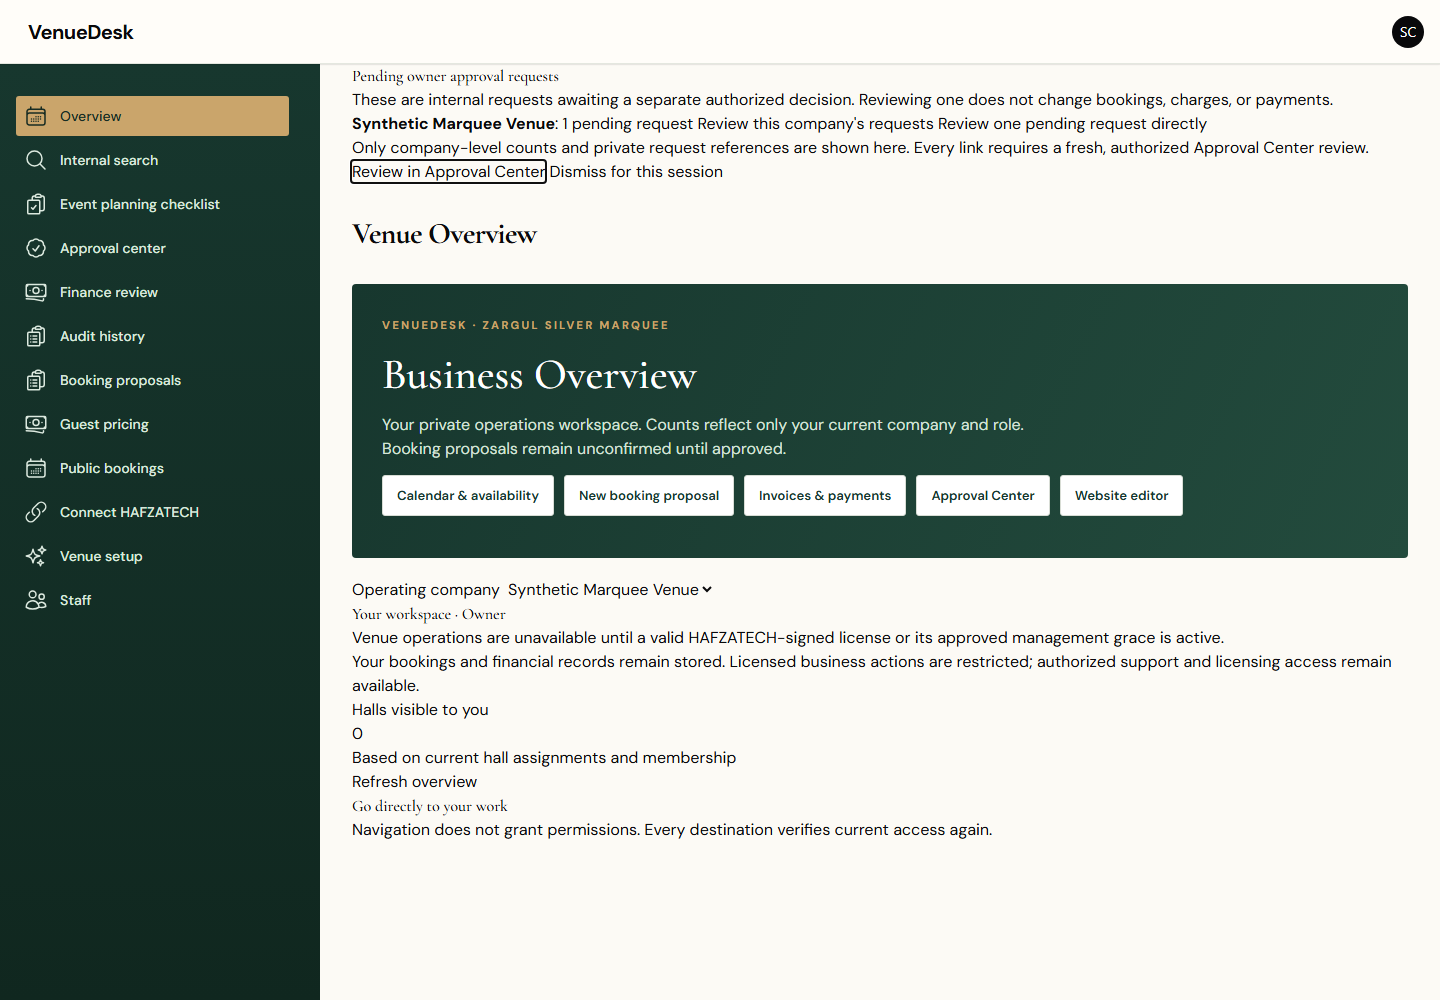
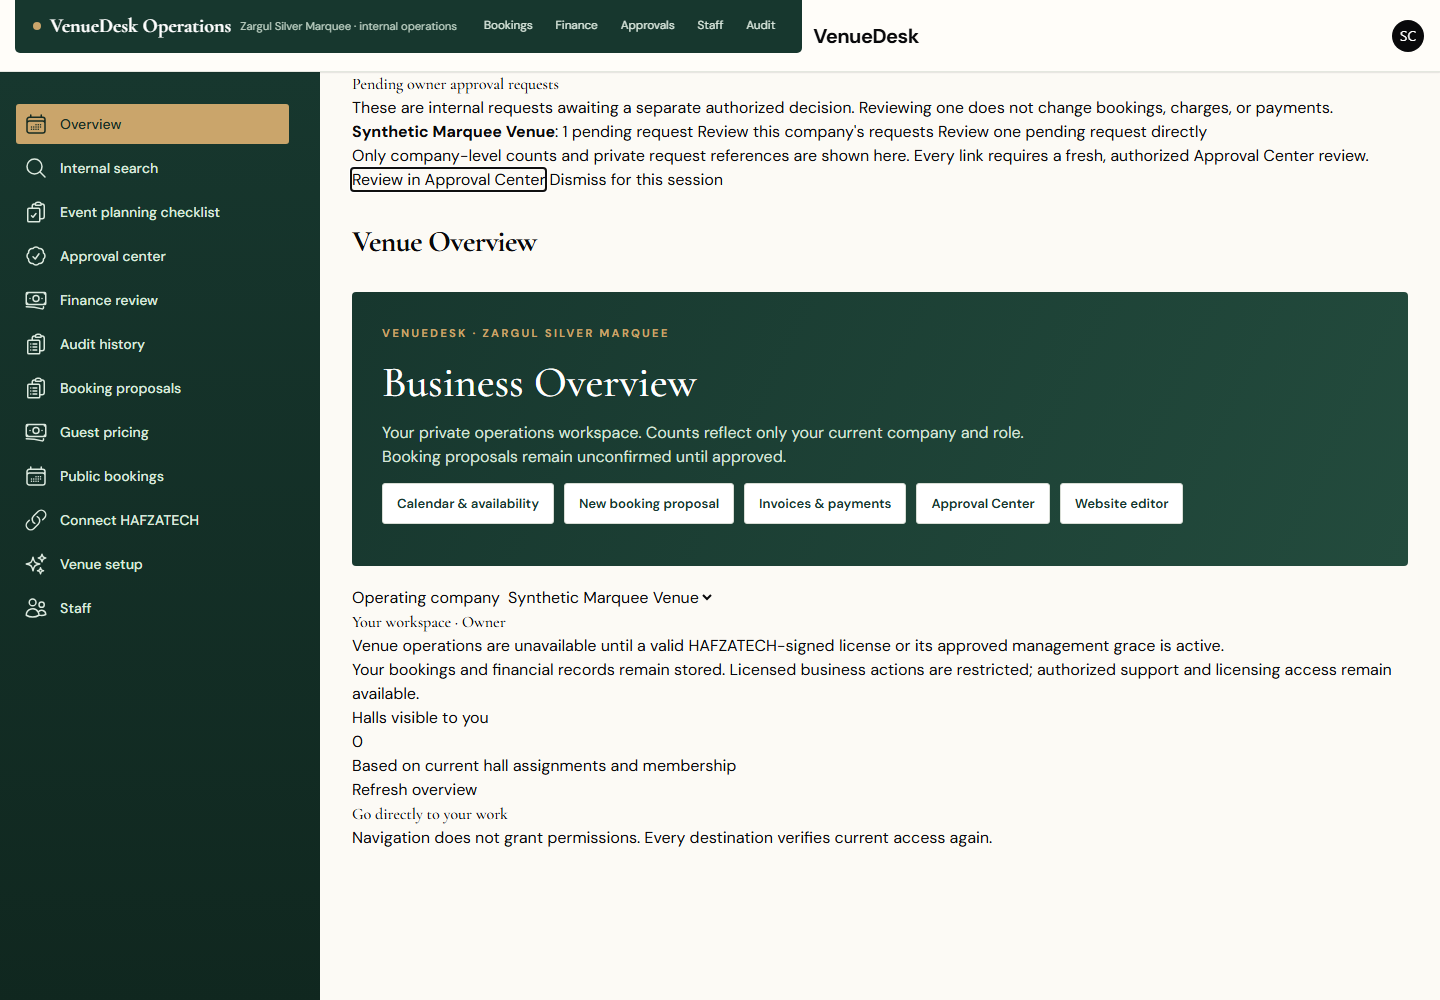
feat(ui): connect VenueDesk module bar and Central operations

diff --git a/backend/public/css/venuedesk.css b/backend/public/css/venuedesk.css
@@ -34,4 +34,8 @@ body{font-family:'DM Sans',system-ui,sans-serif}
 .fi-sidebar-item.fi-active .fi-sidebar-item-label,.fi-sidebar-item.fi-active .fi-sidebar-item-icon{color:#172c23!important}
 .vd-actions a{color:var(--vd-forest)!important;background:#fff!important;border:1px solid #d8ddd5!important;text-decoration:none}
 .vd-actions a:hover{background:#f5f1e8!important;color:#6b512f!important}
-.vd-hero .vd-actions a{color:var(--vd-forest)!important}
+.vd-hero .vd-actions a{color:var(--vd-forest)!important}.vd-commandbar{display:flex;align-items:center;justify-content:space-between;gap:18px;flex-wrap:wrap;background:#17372e;color:#fff;margin:-1px -1px 18px;padding:12px 18px;border-radius:0 0 5px 5px}
+.vd-commandbar-title{display:flex;align-items:center;gap:9px;flex-wrap:wrap}.vd-commandbar-title strong{font-family:'Cormorant Garamond',serif;font-size:1.25rem;color:#fff}.vd-commandbar-title small{color:#bfd2c5;font-size:.7rem}.vd-dot{width:8px;height:8px;border-radius:50%;background:#caa56b}
+.vd-commandbar-links{display:flex;gap:5px;flex-wrap:wrap}.vd-commandbar-links a{color:#dce9df!important;font-size:.73rem;padding:6px 9px;border-radius:3px}.vd-commandbar-links a:hover,.vd-commandbar-links a.active{background:#caa56b;color:#172c23!important;font-weight:700}
+.vd-bottom-nav{display:none}
+@media(max-width:900px){.vd-commandbar-links{display:none}.vd-bottom-nav{display:flex;position:fixed;z-index:45;left:0;right:0;bottom:0;background:#fff;border-top:1px solid #dbe5dc;justify-content:space-around;padding:6px 2px env(safe-area-inset-bottom);box-shadow:0 -8px 25px #0001}.vd-bottom-nav a{display:flex;flex-direction:column;align-items:center;gap:2px;font-size:.6rem;color:#657369;text-decoration:none;min-width:48px;padding:5px 3px}.vd-bottom-nav a span{font-size:.72rem;font-weight:700;color:#9a784d}.vd-bottom-nav a.active{color:#17372e;font-weight:700}.fi-main{padding-bottom:70px!important}}

diff --git a/central/src/CentralStaffPortalHome.php b/central/src/CentralStaffPortalHome.php
@@ -51,7 +51,18 @@ final class CentralStaffPortalHome
                 'changing operational or financial records.</p>'.
                 $action('/staff/audit/dashboard','Open audit dashboard').'</section>';
         }
-        // A staff member may hold ONLY a customer-scoped role; never infer
+        $ops = [
+            ['/staff/licenses/pending', 'Licenses', 'Review pending paid-license work. Issuance still requires its independent approval boundary.'],
+            ['/staff/support/tickets', 'Support', 'Open the authorized support queue and respond within the current scope.'],
+            ['/staff/billing/overview', 'Billing', 'Review invoice and payment status without issuing settlement from this page.'],
+            ['/staff/customers/directory', 'Customers', 'Find only the customer accounts your current Central role authorizes.'],
+        ];
+        $cards = '';
+        foreach ($ops as [$uri, $title, $copy]) {
+            $cards .= '<section aria-label="'.$title.' operations"><h2>'.$title.'</h2><p>'.$copy.'</p>'
+                .'<form method="post" action="'.$uri.'">'.$hidden.'<button type="submit">Open '.$title.'</button></form></section>';
+        }
+        $sections .= $cards;        // A staff member may hold ONLY a customer-scoped role; never infer
         // its privileges from null-scoped checks or enumerate customers here.
         // The target customer and permission are independently checked by
         // the existing /staff/dashboard protected route on each request.

diff --git a/backend/resources/views/filament/hooks/venuedesk-topbar.blade.php b/backend/resources/views/filament/hooks/venuedesk-topbar.blade.php
@@ -1,0 +1,35 @@
+@php
+    $nav = [
+        ['HallCalendar', 'Calendar'],
+        ['BookingProposals', 'Bookings'],
+        ['FinanceDesk', 'Finance'],
+        ['HallInventory', 'Inventory'],
+        ['ApprovalCenter', 'Approvals'],
+        ['StaffManagement', 'Staff'],
+        ['WebsiteWorkspace', 'Website'],
+        ['AuditHistory', 'Audit'],
+    ];
+@endphp
+<div class="vd-commandbar" aria-label="VenueDesk module navigation">
+    <div class="vd-commandbar-title">
+        <span class="vd-dot"></span>
+        <strong>VenueDesk Operations</strong>
+        <small>Zargul Silver Marquee · internal operations</small>
+    </div>
+    <nav class="vd-commandbar-links">
+        @foreach ($nav as [$pageClass, $label])
+            @php $class = 'App\\Filament\\Pages\\'.$pageClass; @endphp
+            @if (class_exists($class) && $class::canAccess())
+                <a href="{{ $class::getUrl() }}" >{{ $label }}</a>
+            @endif
+        @endforeach
+    </nav>
+</div>
+<div class="vd-bottom-nav" aria-label="Mobile VenueDesk navigation">
+    @foreach ($nav as [$pageClass, $label])
+        @php $class = 'App\\Filament\\Pages\\'.$pageClass; @endphp
+        @if (class_exists($class) && $class::canAccess())
+            <a href="{{ $class::getUrl() }}" ><span>{{ $loop->iteration }}</span>{{ $label }}</a>
+        @endif
+    @endforeach
+</div>

diff --git a/backend/app/Providers/Filament/AdminPanelProvider.php b/backend/app/Providers/Filament/AdminPanelProvider.php
@@ -61,6 +61,10 @@ class AdminPanelProvider extends PanelProvider
                 fn (): \Illuminate\Contracts\View\View => view('filament.hooks.venuedesk-theme'),
             )
             ->renderHook(
+                PanelsRenderHook::TOPBAR_START,
+                fn (): \Illuminate\Contracts\View\View => view('filament.hooks.venuedesk-topbar'),
+            )
+            ->renderHook(
                 PanelsRenderHook::PAGE_START,
                 fn (): \Illuminate\Contracts\View\View => view('filament.hooks.owner-approval-attention'),
             )
